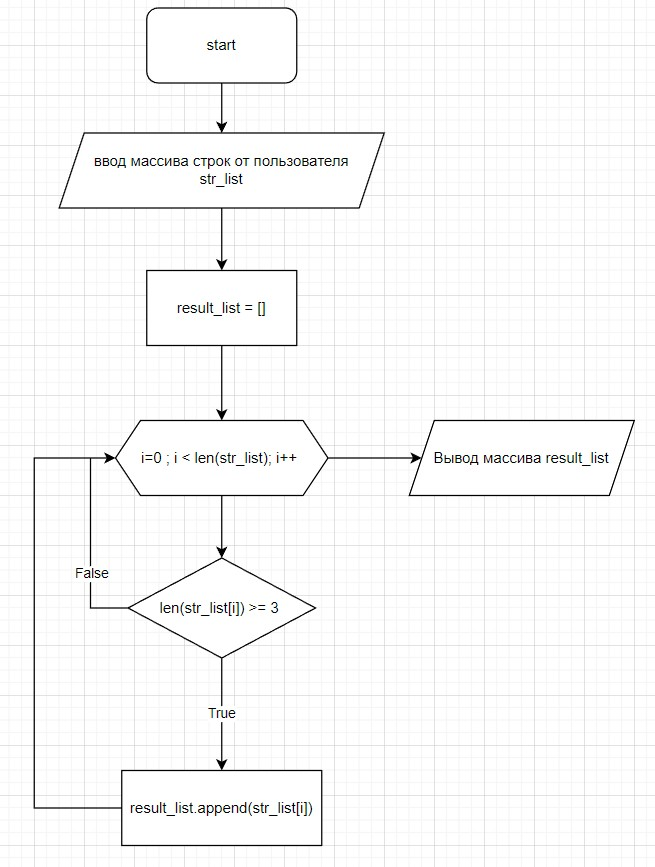
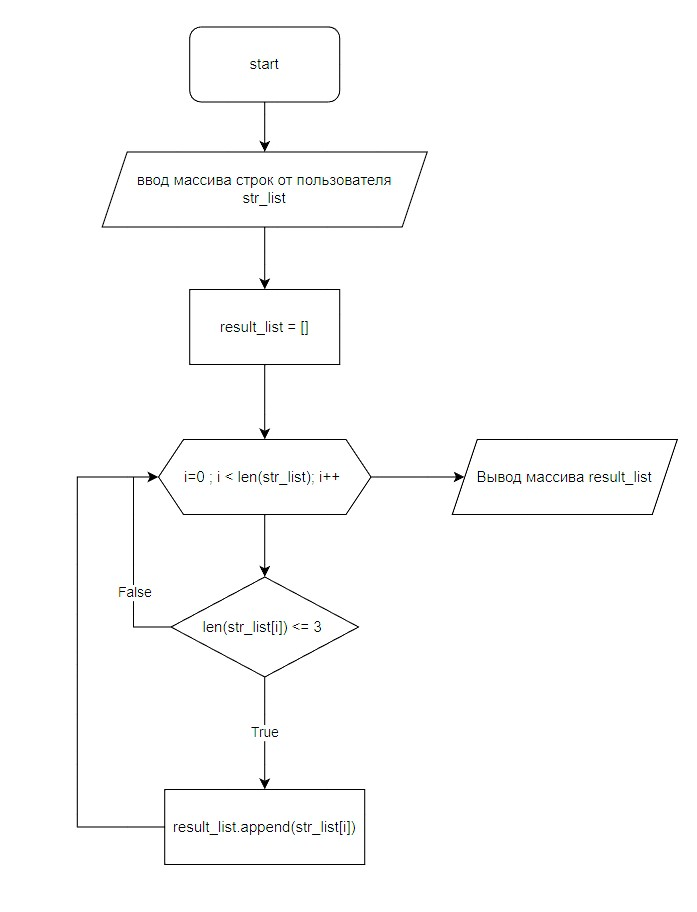
added FilterLenArray function changed block_diagram.jpg added comments and small fixes in main code

diff --git a/Program.cs b/Program.cs
@@ -1,4 +1,5 @@
-string[] InputStringArray(int len)
+// в консоли запрос len строк от пользователя
+string[] InputStringArray(int len)
 {
     string[] result = new string[len];
     for (int i = 0; i < len; i++)
@@ -8,6 +9,7 @@
     return result;
 }
 
+// вывод массива строк в консоль
 void PrintStringArray(string[] strArray)
 {
     for (int i = 0; i < strArray.Length; i++)
@@ -16,10 +18,34 @@ void PrintStringArray(string[] strArray)
     }
 }
 
+// возвращает отфильтрованный массив строк, 
+// с строками длиной меньше или равно maxLen
+string[] FilterLenArray(string[] strArray, int maxLen = 3)
+{
+    int count = 0;
+    for(int i=0; i<strArray.Length; i++)
+        if (strArray[i].Length <= maxLen) count++;
+    
+    string[] result = new string[count];
+    count = 0;
+
+    for (int i=0; i<strArray.Length; i++)
+    {
+        if (strArray[i].Length<=maxLen)
+        {
+            result[count] = strArray[i];
+            count++;
+        }
+    }
+    return result;
+}
+
+
 Console.Write("Введите количество элементов массива: ");
 int num = Int16.Parse(Console.ReadLine());
+Console.WriteLine("Вводите строки через Enter:");
 
 string[] inp_array = InputStringArray(num);
 
 Console.WriteLine("Вывод: ");
-PrintStringArray(inp_array);
+PrintStringArray(FilterLenArray(inp_array));
